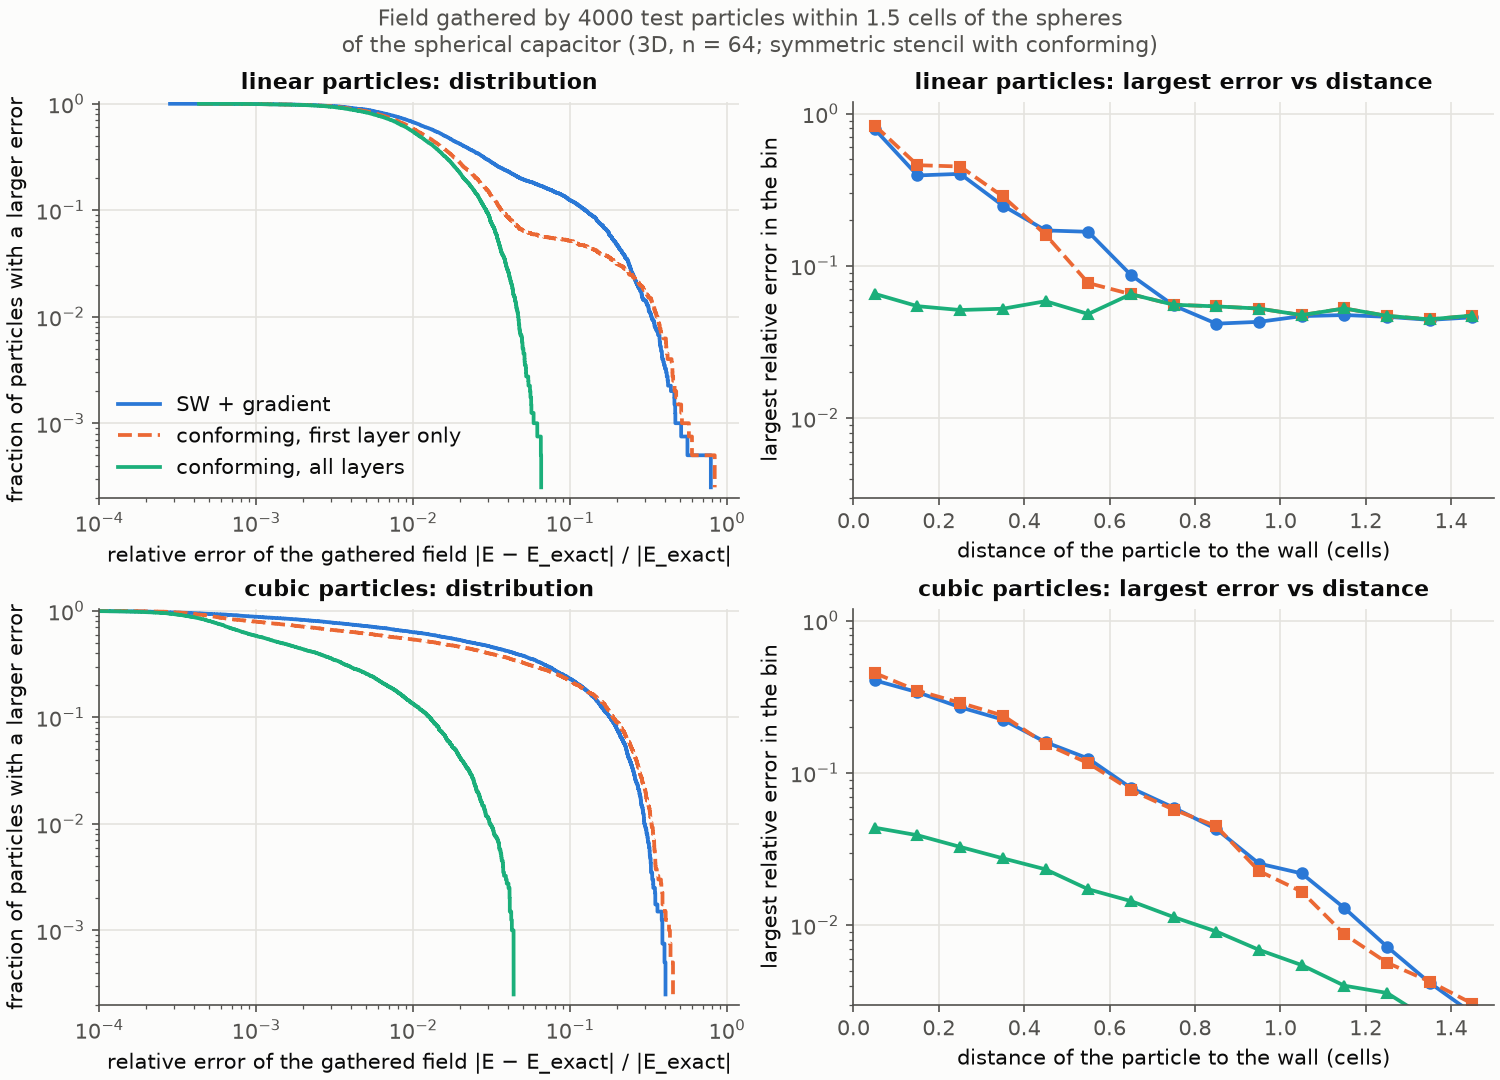
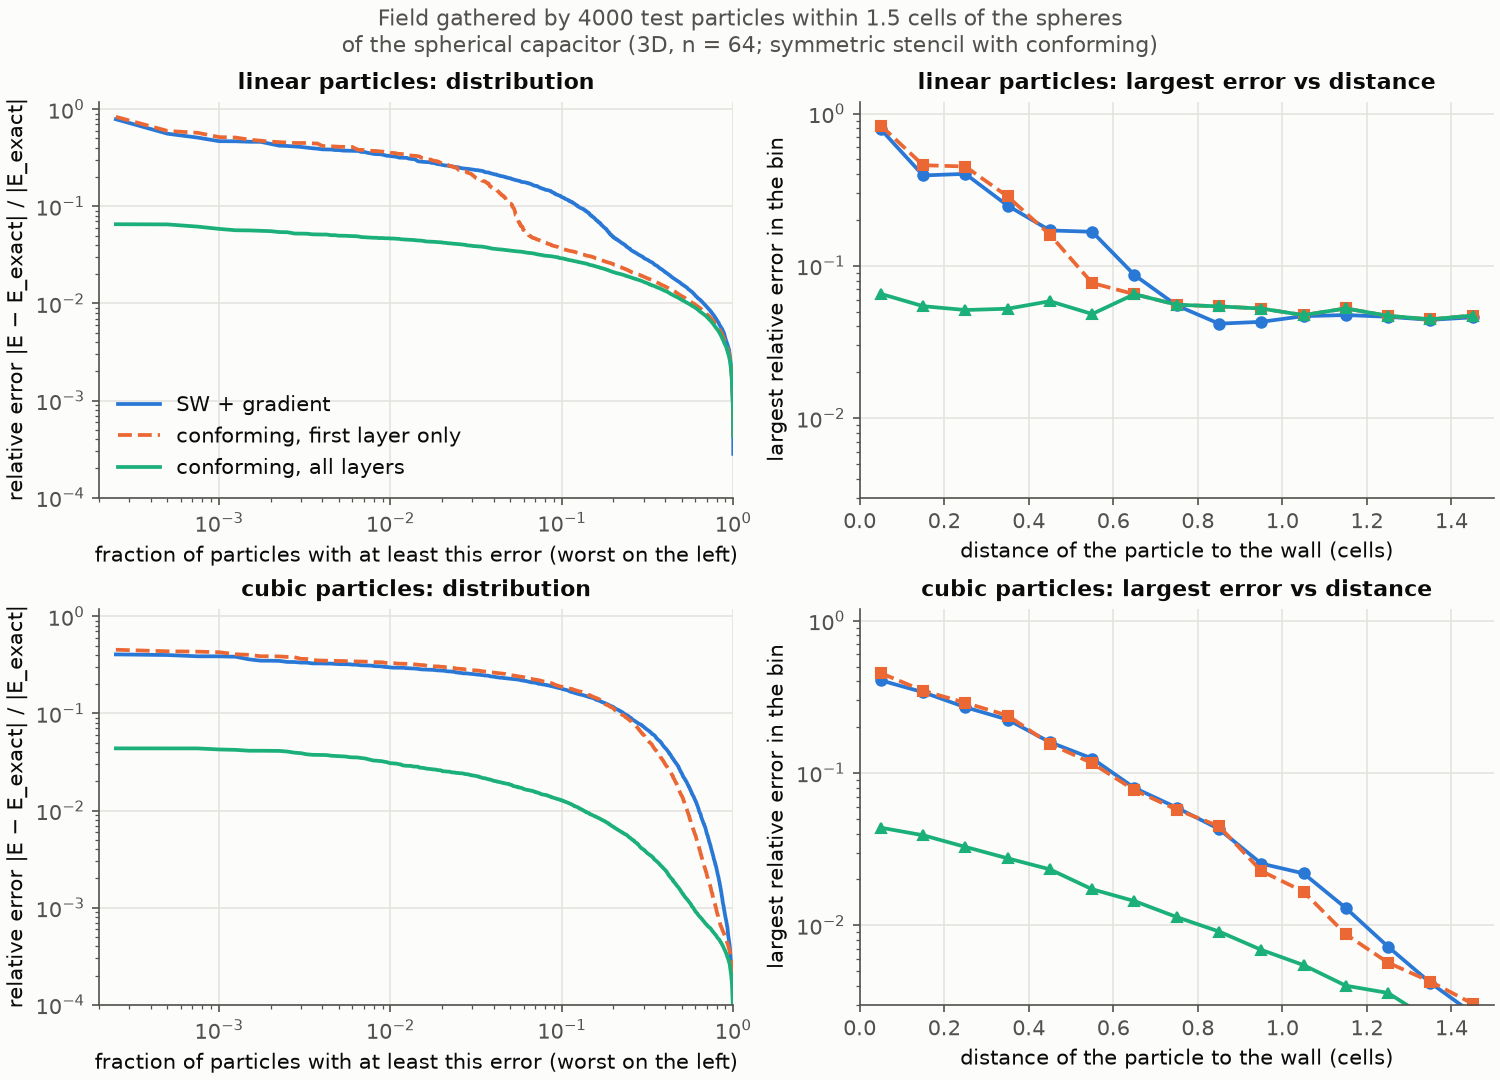
Figures: quantile plot of the near-wall error, error against r, exact potential in the RZ maps

diff --git a/figs.py b/figs.py
@@ -61,52 +61,58 @@ def fig_nearwall_dist():
         ax0, ax1 = axs[row]
         for (label, col, ls, mk), fn in zip(METHODS, FILES[shape]):
             _, t, err, _ = nearwall_errors(NW / fn)
-            e = np.sort(err)
-            frac = 1.0 - np.arange(len(e)) / len(e)
-            ax0.step(e, frac, where="post", color=col, ls=ls, label=label)
+            e = np.sort(err)[::-1]                      # largest first
+            frac = (np.arange(len(e)) + 1) / len(e)     # fraction of particles with an error >= e
+            ax0.plot(frac, e, color=col, ls=ls, label=label)
             mx = [err[(t >= a) & (t < b)].max() for a, b in zip(edges[:-1], edges[1:])]
             ax1.plot(mid, mx, color=col, ls=ls, marker=mk, markersize=5, label=label)
         name = "linear" if shape == 1 else "cubic"
         ax0.set_xscale("log"); ax0.set_yscale("log")
-        ax0.set_xlim(1e-4, 1.2); ax0.set_ylim(2e-4, 1.05)
-        ax0.set_xlabel("relative error of the gathered field |E − E_exact| / |E_exact|")
-        ax0.set_ylabel("fraction of particles with a larger error")
+        ax0.set_xlim(2e-4, 1); ax0.set_ylim(1e-4, 1.2)
+        ax0.set_xlabel("fraction of particles with at least this error (worst on the left)")
+        ax0.set_ylabel("relative error |E − E_exact| / |E_exact|")
         ax0.set_title(f"{name} particles: distribution")
         ax1.set_yscale("log"); ax1.set_ylim(3e-3, 1.2); ax1.set_xlim(0, 1.5)
         ax1.set_xlabel("distance of the particle to the wall (cells)")
         ax1.set_ylabel("largest relative error in the bin")
         ax1.set_title(f"{name} particles: largest error vs distance")
     axs[0][0].legend(loc="lower left")
+    for a in axs.flat:
+        a.set_ylim(1e-4 if a in axs[:, 0] else 3e-3, 1.2)
     fig.suptitle("Field gathered by 4000 test particles within 1.5 cells of the spheres\n"
                  "of the spherical capacitor (3D, n = 64; symmetric stencil with conforming)", fontsize=10.5, color=INK2)
     fig.savefig(OUT / "nearwall_error_distribution.png", dpi=150)
 
 
 def fig_nearwall_map():
-    fig, axs = plt.subplots(2, 3, figsize=(12, 8.2), constrained_layout=True)
-    norm = LogNorm(1e-3, 1.0)
+    fig, axs = plt.subplots(2, 3, figsize=(12, 7.6), sharex=True, sharey=True, constrained_layout=True)
+    n = 64
     for row, shape in enumerate((1, 3)):
-        for colix, ((label, _, _, _), fn) in enumerate(zip(METHODS, FILES[shape])):
+        for colix, ((label, col, _, _), fn) in enumerate(zip(METHODS, FILES[shape])):
             ax = axs[row][colix]
             p, t, err, outer = nearwall_errors(NW / fn)
-            m = (~outer) & (p[:, 2] > 0)          # inner sphere, upper half, seen from +z
-            o = np.argsort(err[m])                 # draw the large errors on top
-            sc = ax.scatter(p[m, 0][o], p[m, 1][o], c=err[m][o], cmap=SEQ, norm=norm, s=14,
-                            edgecolors="none")
-            ax.add_patch(plt.Circle((0, 0), A, fill=False, color=INK2, lw=0.8))
-            ax.set_xticks([-0.3, -0.15, 0, 0.15, 0.3]); ax.set_yticks([-0.3, -0.15, 0, 0.15, 0.3])
-            ax.set_xlim(-0.34, 0.34); ax.set_ylim(-0.34, 0.34); ax.set_aspect("equal")
-            ax.set_title(f"{'linear' if shape == 1 else 'cubic'} particles\n{label}\n"
-                         f"max {err[m].max() * 100:.0f} %, 95th pct. {np.percentile(err[m], 95) * 100:.1f} %",
-                         fontsize=9.5)
-            ax.set_xlabel("x (m)")
+            m = ~outer                                  # inner sphere: the gap is at r > a
+            r = np.linalg.norm(p[m], axis=1)
+            ax.scatter(r, err[m], s=6, color=col, alpha=0.45, edgecolors="none")
+            edges = A + np.arange(0, 1.51, 0.1) / n
+            mx = [err[m][(r >= a) & (r < b)].max() for a, b in zip(edges[:-1], edges[1:])]
+            ax.step(edges, mx + [mx[-1]], where="post", color=INK, lw=1.2, label="largest in 0.1-cell bins")
+            ax.axvline(A, color=INK2, lw=1.0)
+            for k in range(1, 2):
+                ax.axvline(A + k / n, color=GRID, lw=0.8, ls=":")
+            ax.set_yscale("log"); ax.set_ylim(1e-4, 1.2); ax.set_xlim(A - 0.03 / n, A + 1.53 / n)
+            ax.set_title(f"{'linear' if shape == 1 else 'cubic'} particles\n{label}", fontsize=9.5)
+            if row == 1:
+                ax.set_xlabel("distance from the centre r (m)")
             if colix == 0:
-                ax.set_ylabel("y (m)")
-            ax.tick_params(labelsize=8)
-    cb = fig.colorbar(sc, ax=axs, shrink=0.6, location="right")
-    cb.set_label("relative error of the gathered field")
-    fig.suptitle("Test particles within 1.5 cells of the inner sphere (radius 0.3117 m, upper half, seen from +z),\n"
-                 "coloured by the relative error of the field they gather; 3D, n = 64", fontsize=10.5, color=INK2)
+                ax.set_ylabel("relative error |E − E_exact| / |E_exact|")
+            ax.annotate("wall", (A, 1.5e-4), xytext=(3, 0), textcoords="offset points", color=INK2, fontsize=8.5)
+            sec = ax.secondary_xaxis("top", functions=(lambda x: (x - A) * n, lambda c: A + c / n))
+            if row == 0:
+                sec.set_xlabel("distance to the wall (cells)")
+    axs[0][0].legend(loc="upper right", fontsize=8.5)
+    fig.suptitle("Test particles within 1.5 cells of the inner sphere (radius a = 0.3117 m; the gap is at r > a):\n"
+                 "relative error of the field they gather against r; 3D, n = 64", fontsize=10.5, color=INK2)
     fig.savefig(OUT / "nearwall_error_map.png", dpi=150)
 
 
@@ -125,12 +131,14 @@ def fig_sphcap_maps():
     _, ey = sph(n, "symmetric")
     r = d["r"][:, 0]; z = d["z"][0, :] - 1
     fig, axs = plt.subplots(1, 3, figsize=(12, 6.4), constrained_layout=True)
-    phi = np.where(d["gap"], d["phi"], np.nan)
+    rf = np.linspace(0, 1, 401); zf = np.linspace(-1, 1, 801)
+    RF, ZF = np.meshgrid(rf, zf, indexing="ij"); RHO = np.hypot(RF, ZF)
+    phi = np.where((RHO > A) & (RHO < B), VO + K * (1 / np.maximum(RHO, 1e-9) - 1 / B), np.nan)
     ax = axs[0]
     ax.set_facecolor(COVERED)
-    im = ax.pcolormesh(r, z, phi.T, cmap=SEQ, shading="nearest")
-    fig.colorbar(im, ax=ax, shrink=0.7, label="φ (V)")
-    ax.set_title("potential φ\n(symmetric stencil)")
+    im = ax.pcolormesh(rf, zf, phi.T, cmap=SEQ, shading="nearest")
+    fig.colorbar(im, ax=ax, shrink=0.7, label="φ_exact (V)")
+    ax.set_title("exact potential\nφ_exact = V_o + K (1/ρ − 1/b)")
     lim = np.nanmax(np.abs(ey)) * 100            # percent
     norm = TwoSlopeNorm(0.0, -lim, lim)
     for ax, e, name in ((axs[1], es, "Shortley-Weller"), (axs[2], ey, "symmetric")):
@@ -147,8 +155,9 @@ def fig_sphcap_maps():
             th = np.linspace(-np.pi / 2, np.pi / 2, 200)
             ax.plot(R * np.cos(th), R * np.sin(th), color=INK2, lw=0.7)
     axs[0].set_ylabel("z − 1 (m)")
-    fig.suptitle("Spherical capacitor in RZ, n = 64: spheres of radius 0.3117 m at 50 V and 0.8233 m at −20 V;\n"
-                 "covered nodes in gray", fontsize=10.5, color=INK2)
+    fig.suptitle("Spherical capacitor in RZ, n = 64: spheres of radius a = 0.3117 m at V = 50 V and b = 0.8233 m at "
+                 "V_o = −20 V;\nρ = distance from the centre, K = (V − V_o) / (1/a − 1/b); covered nodes in gray",
+                 fontsize=10.5, color=INK2)
     fig.savefig(OUT / "sphcap_rz_maps.png", dpi=150)
 
 
